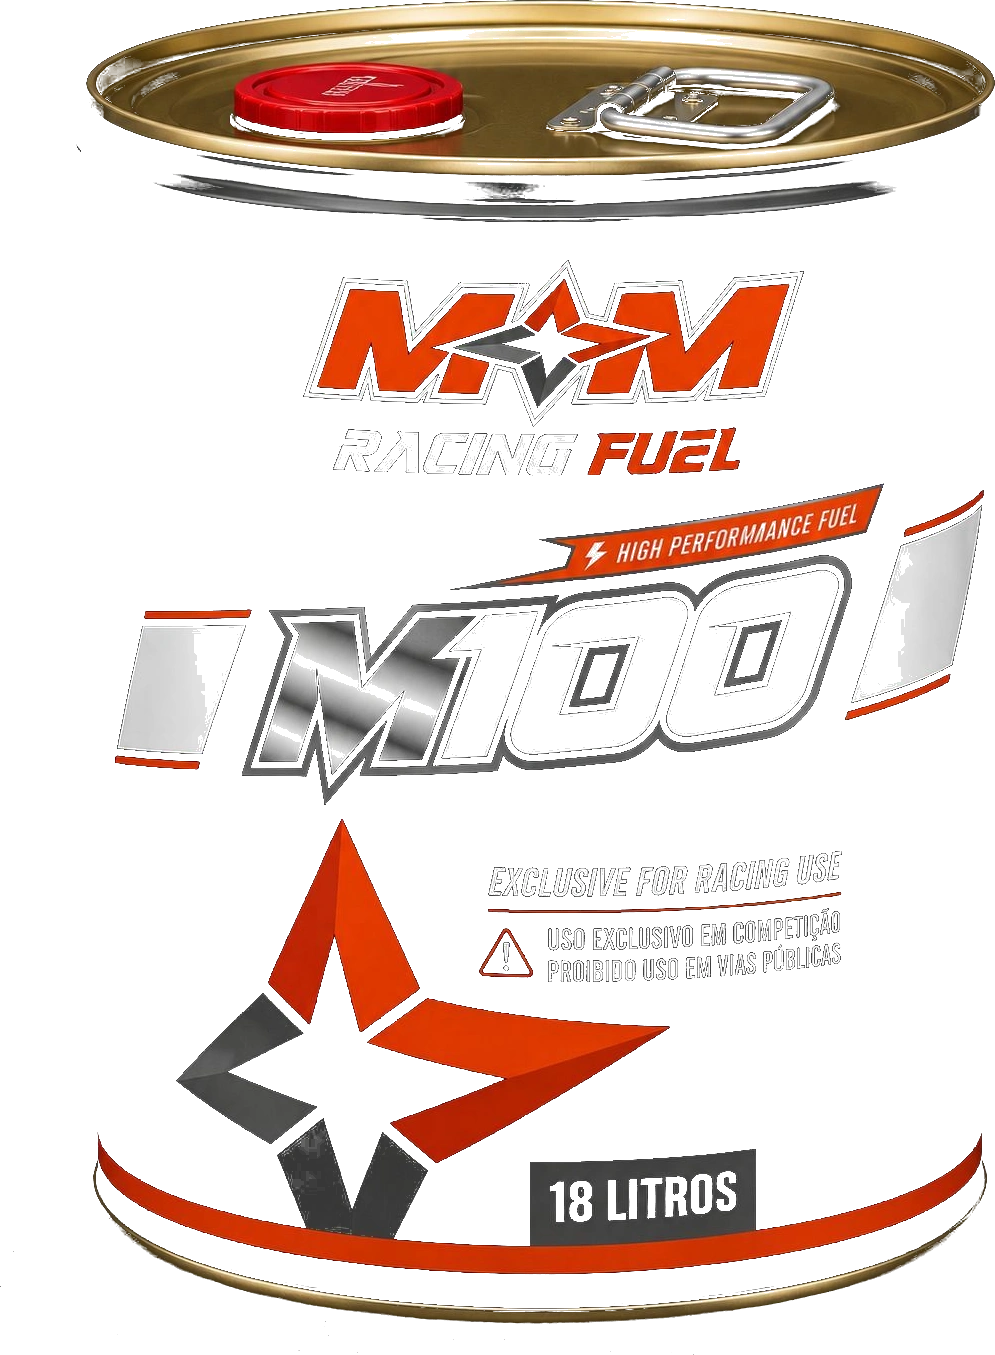
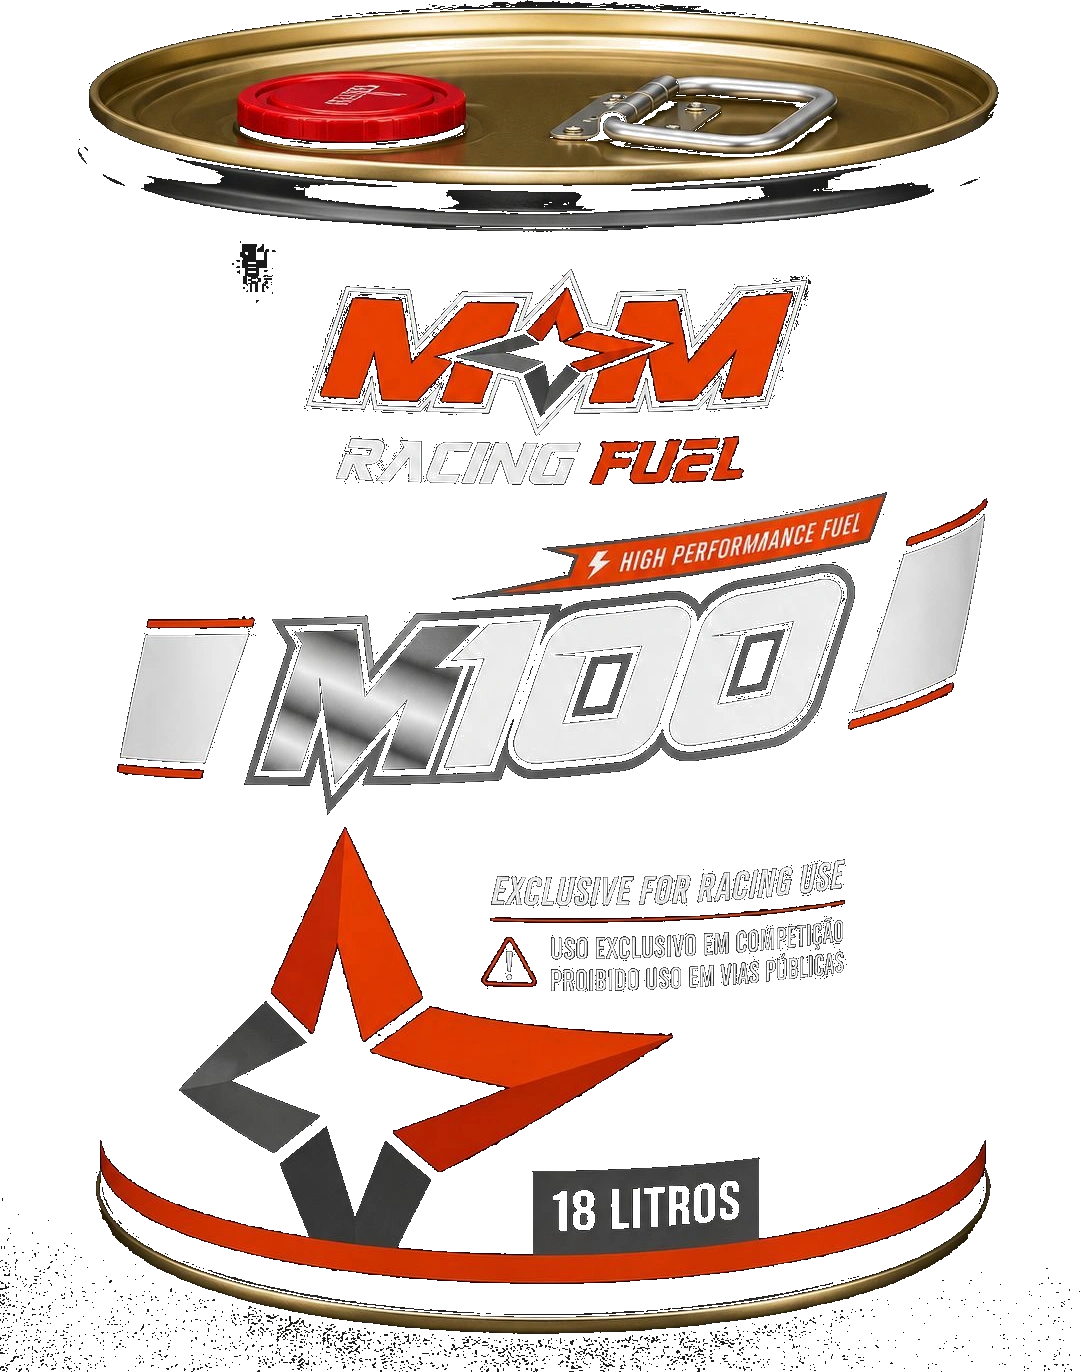
fix: remocao de fundo nas artes das latas, ajuste no divisor laranja dos cards e secao instagram
- Recorte cirurgico das latas de combustivel M5, M10, M15 e M20 (removida a arte splash de fundo das imagens originais)
- product-img-wrap atualizado para fundo transparente com sombra de projecao natural
- mod-split-divider ajustado para 58% de altura, parando antes de atravessar o texto do card
- Secao do Instagram limpa e pronta para receber o widget do feed oficial

diff --git a/style.css b/style.css
@@ -2243,17 +2243,17 @@ button {
     }
 }
 
-/* Center divider line */
+/* Center divider line — top half only, does not cross text */
 .mod-split-divider {
     position: absolute;
     top: 0;
-    bottom: 0;
+    height: 58%;
     left: 50%;
     width: 2px;
-    background: rgba(255,107,0,0.8);
+    background: linear-gradient(180deg, rgba(255,107,0,0.9) 0%, rgba(255,107,0,0.2) 100%);
     z-index: 3;
     transform: translateX(-50%);
-    box-shadow: 0 0 10px rgba(255,107,0,0.6);
+    box-shadow: 0 0 10px rgba(255,107,0,0.5);
     pointer-events: none;
 }
 
@@ -2327,26 +2327,28 @@ button {
 /* ── PRODUCT IMAGE ───────────────────────────────────────────── */
 .product-img-wrap {
     width: 100%;
-    height: 140px;
+    height: 160px;
     display: flex;
     align-items: center;
     justify-content: center;
     margin-bottom: 1rem;
     overflow: hidden;
-    background: rgba(0,0,0,0.3);
+    background: transparent;
 }
 
 .product-img {
-    width: 100%;
-    height: 100%;
+    max-width: 100%;
+    max-height: 100%;
+    width: auto;
+    height: auto;
     object-fit: contain;
     object-position: center;
     transition: transform 0.4s ease;
-    padding: 0.5rem;
+    filter: drop-shadow(0 10px 20px rgba(0,0,0,0.6));
 }
 
 .product-card:hover .product-img {
-    transform: scale(1.06);
+    transform: scale(1.08);
 }
 
 /* Tambor 200L icon placeholder */
